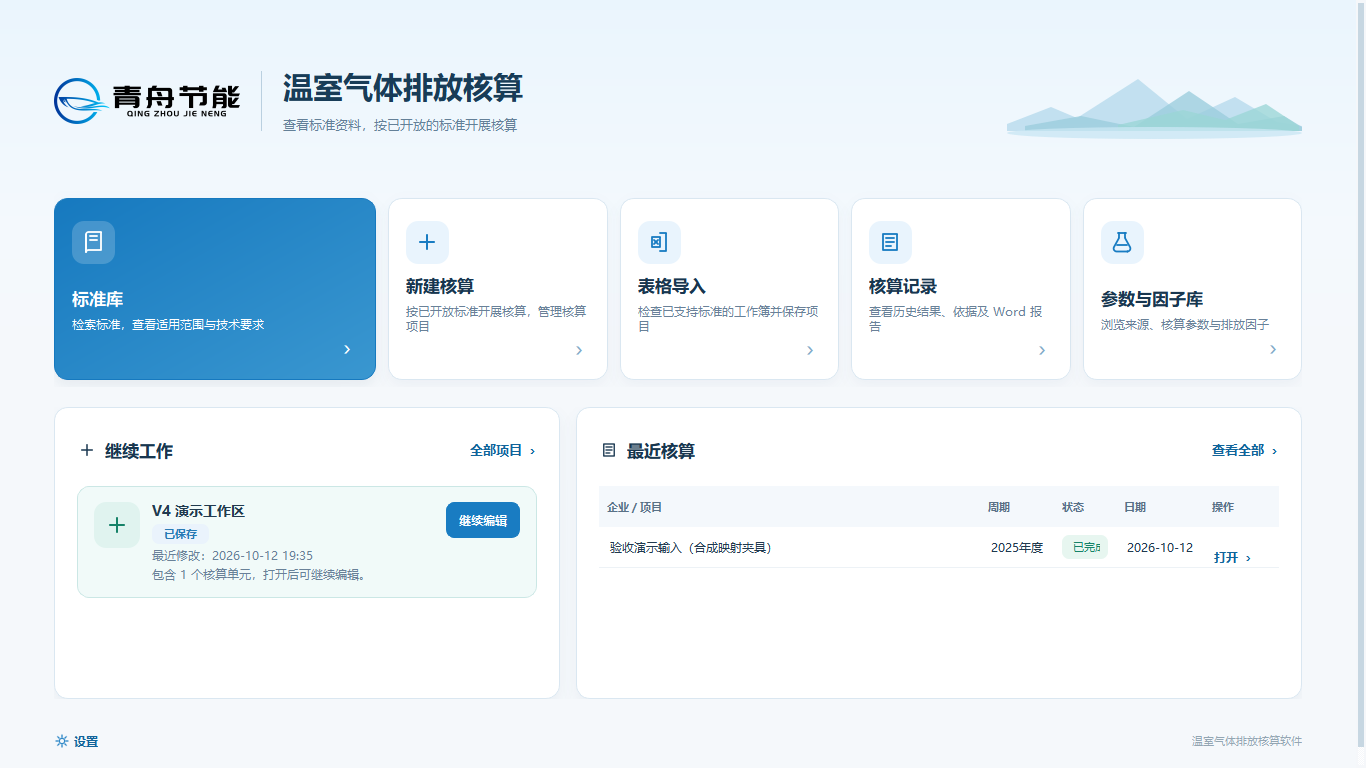
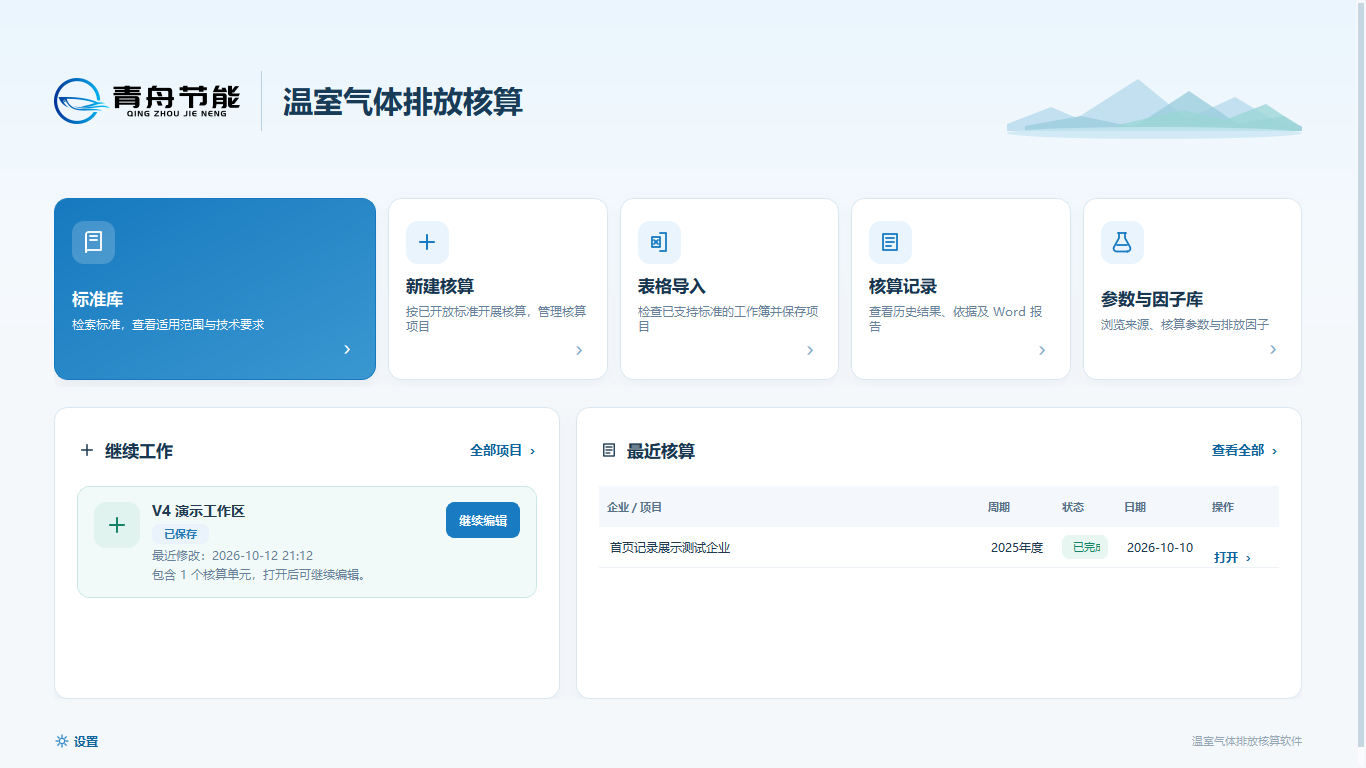
fix: remove home subtitle from V4 header

Changed region(s): [[0.1845, 0.0938, 0.3997, 0.1875], [0.4305, 0.6875, 0.5534, 0.7188]]

diff --git a/packages/ui/pages.py b/packages/ui/pages.py
@@ -700,20 +700,13 @@ class HomePage(BasePage):
         title_group.setObjectName("homeTitleGroup")
         title_group_layout = QVBoxLayout(title_group)
         title_group_layout.setContentsMargins(0, 0, 0, 0)
-        title_group_layout.setSpacing(6)
         title = QLabel(view_model.home_title, title_group)
         title.setObjectName("pageTitle")
         title.setWordWrap(True)
         title.setStyleSheet("font-size: 30px; font-weight: 800; color: #183c57;")
         title.setFixedHeight(42)
-        description = QLabel(view_model.home_description, title_group)
-        description.setObjectName("homeDescription")
-        description.setWordWrap(True)
-        description.setStyleSheet("font-size: 13px; color: #648098;")
-        description.setFixedHeight(21)
         title_group_layout.addWidget(title)
-        title_group_layout.addWidget(description)
-        title_group.setFixedHeight(69)
+        title_group.setFixedHeight(42)
         title_layout.addWidget(title_group, 1)
         header_layout.addWidget(title_row, 1)
         header_layout.addWidget(

diff --git a/tests/test_g03_shell.py b/tests/test_g03_shell.py
@@ -144,6 +144,7 @@ class G03ShellTest(unittest.TestCase):
         self.assertEqual(home.findChild(QLabel, "pageTitle").text(), "温室气体排放核算")
         self.assertIsNotNone(home.findChild(QWidget, "primaryWorkspace"))
         self.assertIsNotNone(home.findChild(QWidget, "homeHeader"))
+        self.assertIsNone(home.findChild(QLabel, "homeDescription"))
         self.assertIsNone(home.findChild(QWidget, "homeInfoChip"))
         self.assertIsNotNone(home.findChild(QWidget, "recentWorkCard"))
         self.assertIsNotNone(home.findChild(QWidget, "recentProjectsCard"))

diff --git a/IMPLEMENTATION_REPORT.md b/IMPLEMENTATION_REPORT.md
@@ -10,7 +10,7 @@
 
 ## 实施内容
 
-- 按 Owner 的首页意见移除标准库卡片前的小字；首页保持无侧栏、真实青舟 Logo、标准库重点卡、五张入口卡和真实“继续工作 / 最近核算”内容。没有项目或记录时显示真实空状态。
+- 按 Owner 的首页意见移除标题下的小字说明；首页保持无侧栏、真实青舟 Logo、标准库重点卡、五张入口卡和真实“继续工作 / 最近核算”内容。没有项目或记录时显示真实空状态。
 - 统一公共页面的 V4 色彩、字体、间距、卡片、输入、表格、选项卡、焦点/悬停样式；新增一个 SVG 下拉箭头并加入既有发布资源白名单。
 - 标准库和参数库采用标准中性文案。分发逻辑只把 `STANDARD_ID` 路由到炭素材料专属核算页；未开放标准不会进入该页。没有建立多标准插件或通用计算表单。
 - 炭素材料页面的八类排放源入口改为 V4 四列网格，只调整布局，不改变输入、Calculator 或计算语义。
@@ -21,6 +21,7 @@
 ## 验证
 
 - 定向命令 `python -B -m unittest tests.test_g03_shell tests.test_g04_catalog tests.test_g07_records.G07UiTests tests.test_g08_delivery tests.test_main_integration_ui tests.test_p3_c_records_ui tests.test_uat03_page tests.test_uat02_geometry`：84 项通过，0 失败，耗时 432.237 秒。
+- 按首页反馈移除页头副文案后复测 `test_home_is_a_safe_empty_workbench` 与 `test_home_recent_work_shows_saved_project_and_immutable_record`：2 项通过，0 失败，3.170 秒。
 - 相关复测命令覆盖首页空/有数据、标准搜索与白名单分发、发布资源白名单：6 项通过，0 失败，耗时 10.386 秒。
 - 14 个改动 Python 文件用内存 `compile()` 完成语法检查；`git diff --check` 通过。首次 `compileall` 在本机因沙箱不允许写入 worktree 的 `__pycache__` 失败，故改用不写缓存的内存语法检查；Windows CI 仍会按现有 workflow 执行 compileall。
 - Windows 原生 Qt 进程生成并目视检查了 1600×900 主要页面、1366×768 和 1920×1080 首页截图；Qt 报告 DPR 1.0 / 96 logical DPI。125% Windows 系统显示缩放未在本机切换，也未声称实测。截图夹具使用隔离临时 Catalog/Project 和合成冻结 Record。

diff --git a/TASK_STATE.md b/TASK_STATE.md
@@ -4,8 +4,8 @@
 
 最后更新：2026-10-12。工作分支：`codex/ghg-html-v4-pr2`；基线为 `origin/main@204dded5d03853617f79a1f05693e89b619df9d1`。原 `codex/ghg-ui-p3-df` 脏工作区保持未动。
 
-- Owner 已确认首页样板；已按反馈移除入口卡片上方的小字，并用隔离项目/Record夹具确认“继续工作”和“最近核算”展示实际内容。
-- 首页样板已按 Owner 意见移除卡片上方小字；有真实临时 Project/Record 的截图确认“继续工作”和“最近核算”均显示具体内容。
+- Owner 已确认首页样板；按反馈移除标题下的小字说明，并用隔离 Project/Record 夹具确认“继续工作”和“最近核算”展示具体内容。
+- 已更新 1600×900、1366×768、1920×1080 首页截图；无副文案，且项目与最近记录均有实际展示内容。
 - 公共页面沿用中性标准文案；标准分发仅允许 `STANDARD_ID` 进入炭素材料专属核算页。记录列表改为 V4 七列表，记录详情保持两个页签；八类源卡片为炭素材料模块专属四列布局。
 - 全页 Windows Qt 截图和 HTML→Qt 映射说明位于 `docs/ui/v4-evidence/` 与 `docs/ui/HTML_V4_QT_MAPPING.md`。已检查 1600×900、1366×768、1920×1080；当前环境 DPR 1.0 / 96 logical DPI，125% Windows 设置未更改或伪称已验收。
 - 定向回归 84 项通过，后续相关复测 6 项通过；GitHub Windows 全量测试与 standalone CI 等待 PR 触发。
